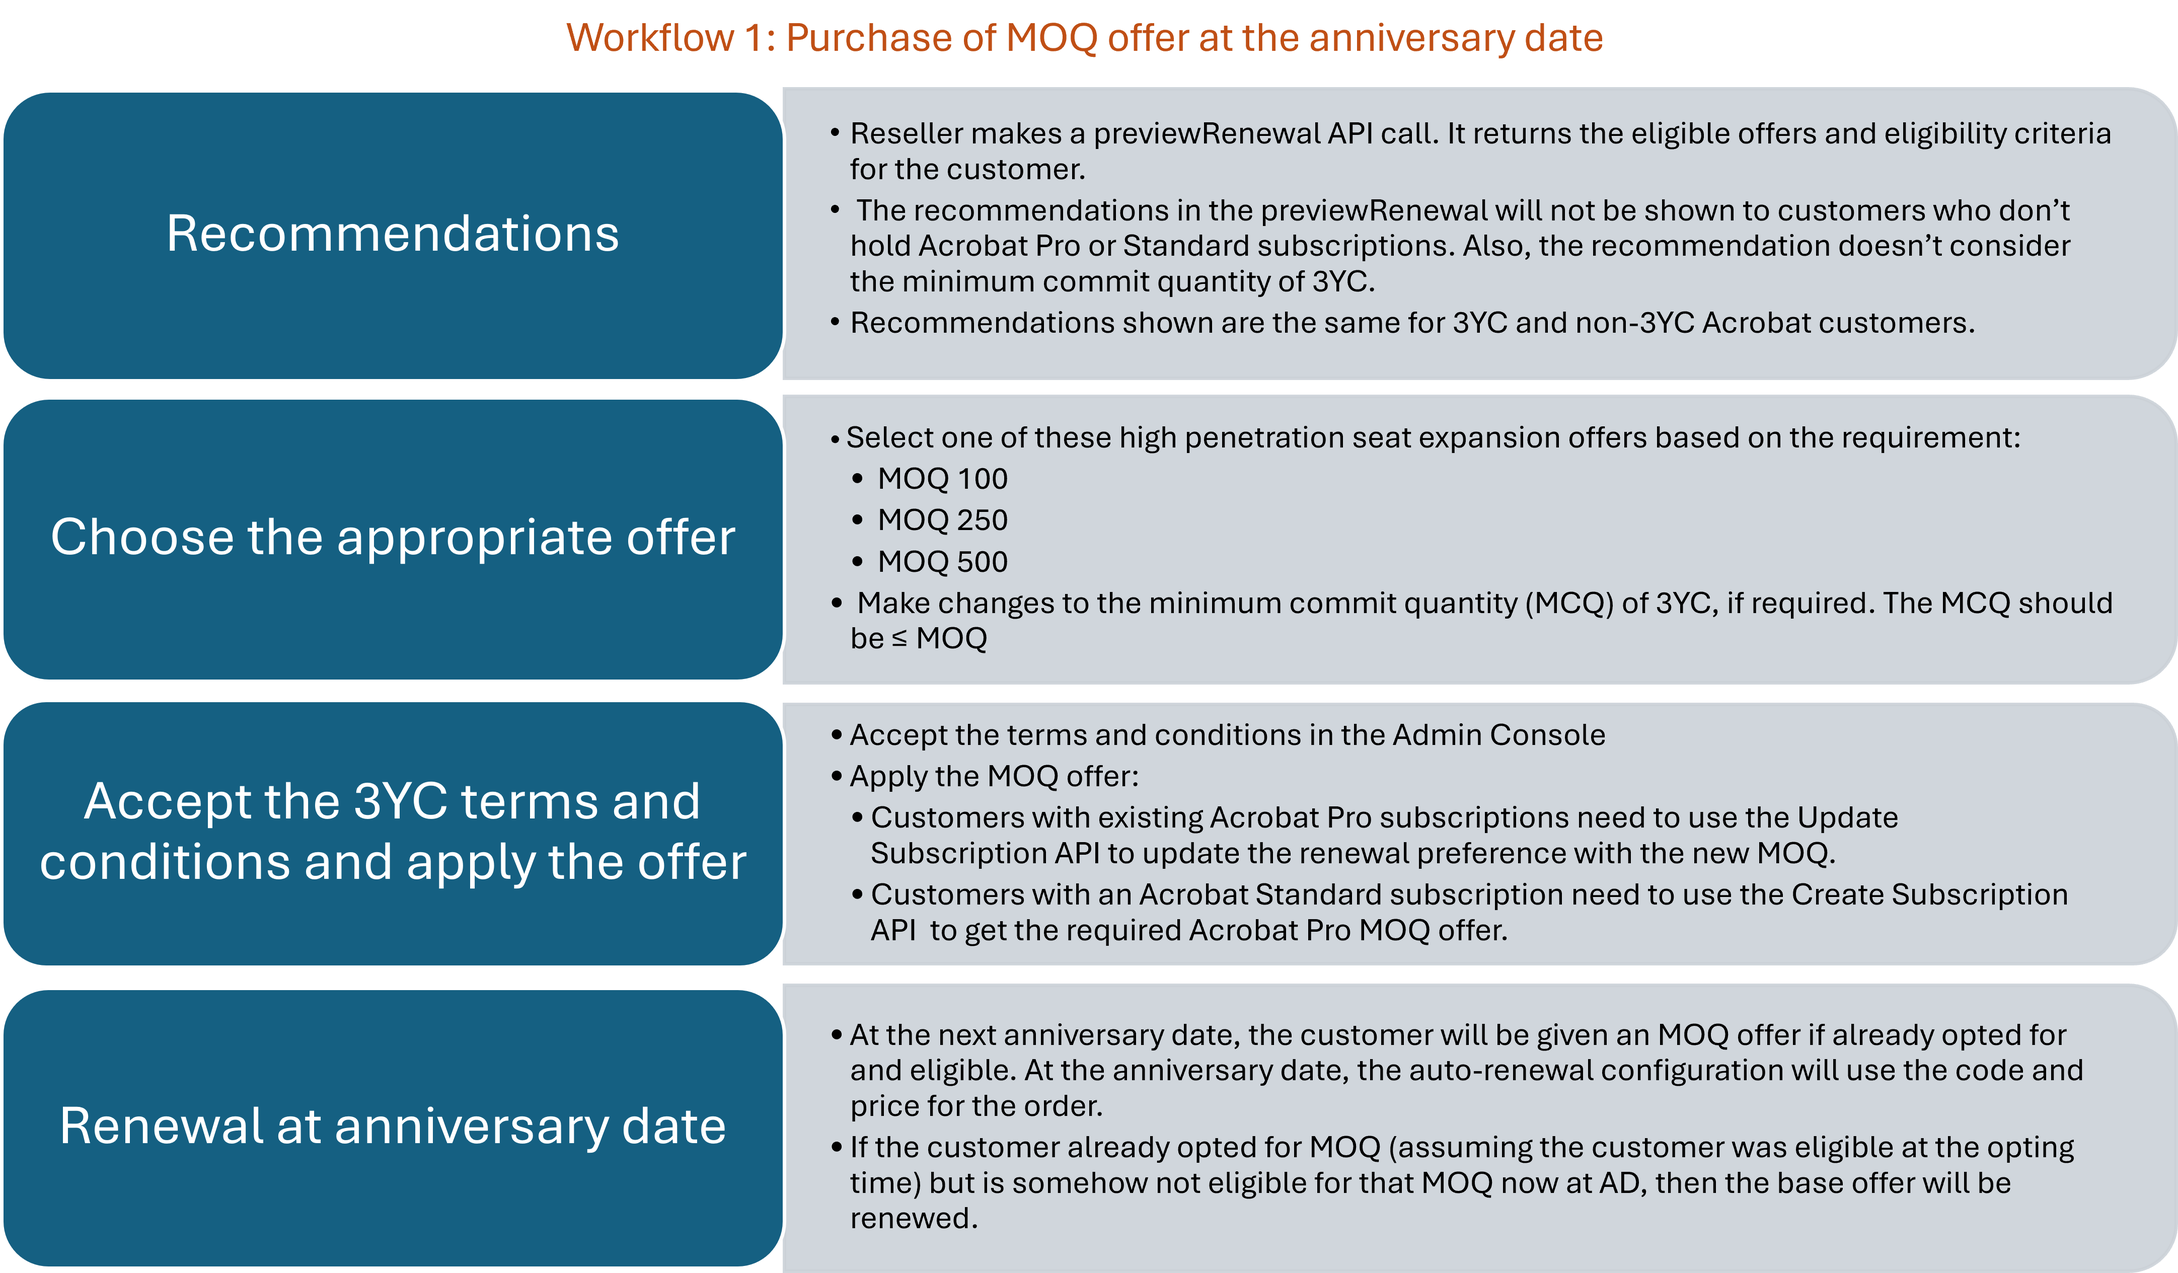
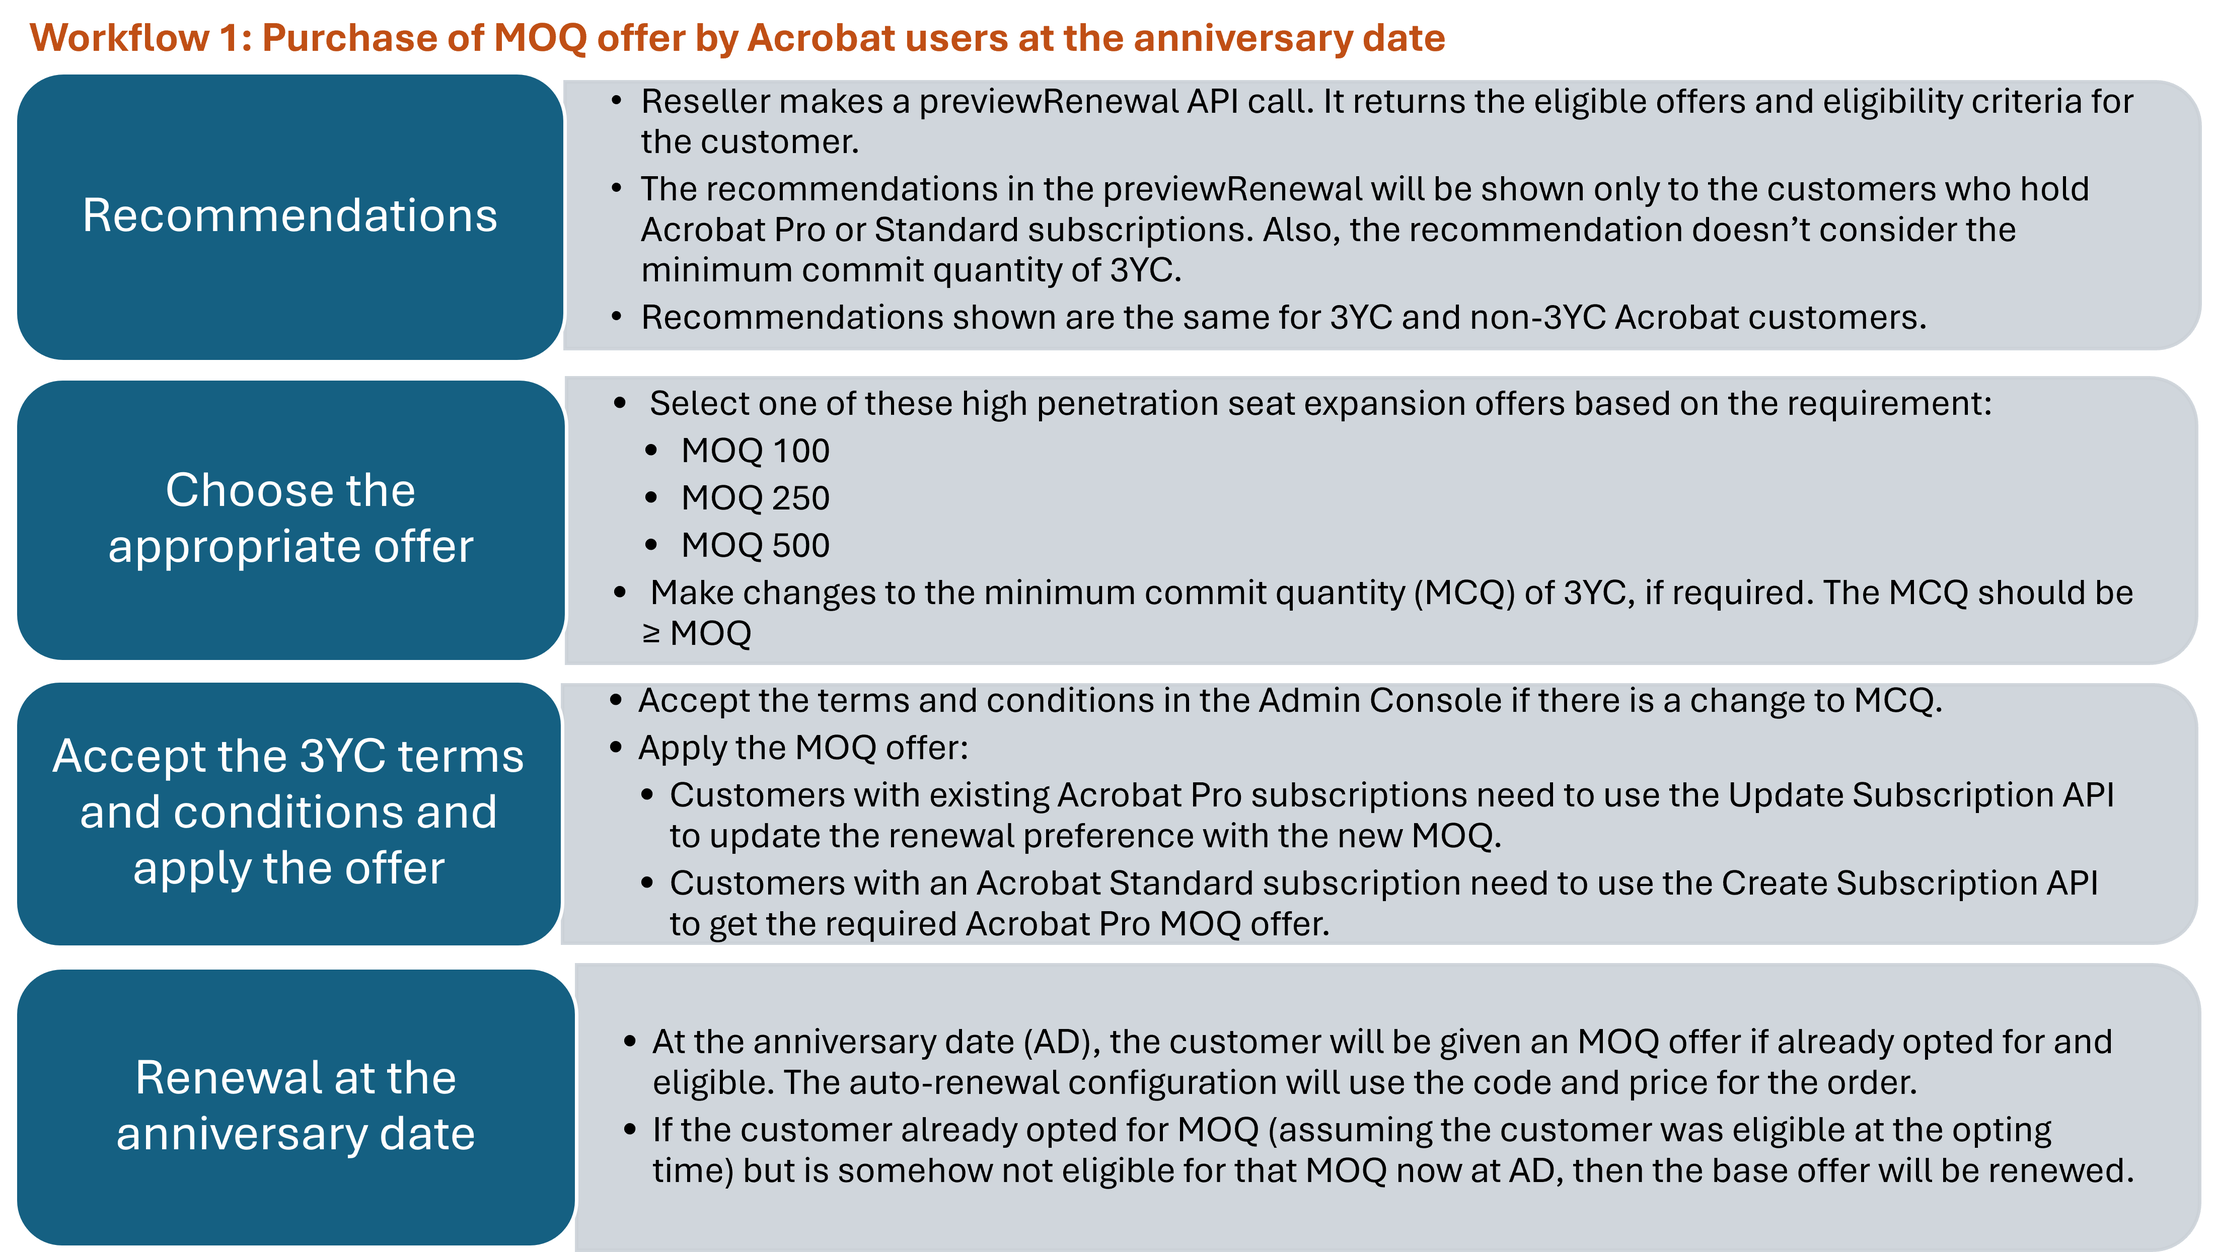
High-pen doc changes based on review comments

Changed region(s): [[0.0, 0.0, 1.0, 1.0]]

diff --git a/src/pages/docs/customer_account/high_pen_apis.md b/src/pages/docs/customer_account/high_pen_apis.md
@@ -1,6 +1,6 @@
 # Manage high penetration offers through APIs
 
-You can manage the following operations through APIs:
+As explained in the [high penetration seat expansion offer workflows](./high_volume_discounts.md#high-penetration-seat-expansion-workflows) section, a reseller and a customer need to perform various steps to provide MOQ offers to customers. This section lists the APIs to be used to achive this goal:
 
 - [Preview renewal offers](#preview-renewal-offers)
 - [Update subscription](#update-subscription)
@@ -10,7 +10,7 @@ You can manage the following operations through APIs:
 
 ## Preview renewal offers
 
-Use the `PreviewRenwal` API to get the preview of the renewal order for the customer. This is the same `POST v3/customers/{customer-id}/orders` with `orderType` as _PREVIEW_RENEWAL_.
+Use the `PreviewRenwal` API to get the preview of the renewal order for the customer. This is the same `POST v3/customers/{customer-id}/orders` API with `orderType` as _PREVIEW_RENEWAL_.
 
 **Assumptions:**
 
@@ -35,6 +35,8 @@ You can run the `PreviewRenewal` API anytime during the current term to get the 
 
 ### Response body
 
+In addition to the standard response of the Order API, the response of the Preview Renewal provides a list of MOQ offers that the customers can avail, under the `eligibleOffers` section:
+
 ```json
 {
   "referenceOrderId": "",
@@ -56,32 +58,33 @@ You can run the `PreviewRenewal` API anytime during the current term to get the 
   "eligibleOffers":
     [
       {
-        "offerId": "65324918CA01X12",
-        "discountCode": "MOQ_X",
-        "eligibility":
+        "offerId": "65324918CA14X12",
+        "renewalCode": "MOQ_100",
+        "eligibilityCriteria":
           {
             "minQuantity": 100,
-            "eligibleCustomer": ["THREE_YEAR_COMMIT"],
+            "additionalCriteria": ["THREE_YEAR_COMMIT"],
             "deploymentId": "1450043516",
           },
       },
       {
-        "offerId": "65324918CA01Y12",
-        "discountCode": "MOQ_Y",
-        "eligibility":
+        "offerId": "65324918CA14Y12",
+        "renewalCode": "MOQ_250",
+        "eligibilityCriteria":
           {
             "minQuantity": 250,
-            "eligibleCustomer": ["THREE_YEAR_COMMIT"],
+            "additionalCriteria": ["THREE_YEAR_COMMIT"],
             "deploymentId": "1450043516",
           },
       },
       {
-        "offerId": "65324918CA01Z12",
-        "discountCode": "MOQ_Z",
-        "eligibility":
-          { "minQuantity": 500, "eligibleCustomer": ["THREE_YEAR_COMMIT"] },
+        "offerId": "65324918CA14Z12",
+        "renewalCode": "MOQ_500",
+        "eligibilityCriteria":
+          { "minQuantity": 500, "additionalCriteria": ["THREE_YEAR_COMMIT"] },
       },
     ],
+    --<mark style="background-color: yellow">Liju</mark>
   "creationDate": "2024-04-01T07:26:05Z",
 }
 ```
@@ -100,7 +103,7 @@ Success response if the customer has already opted for 100 MOQ offer:
   "lineItems": [
     {
       "extLineItemNumber": 1,
-      "offerId": "65324918CA01X12",
+      "offerId": "65324918CA14X12",
       "quantity": 100,
       "subscriptionId": "a5ea3c7a764545a711d2a153678f02NA",
       "status": ""
@@ -108,33 +111,33 @@ Success response if the customer has already opted for 100 MOQ offer:
   ],
   "eligibleOffers": [
     {
-      "offerId": "65324918CA01X12",
-      "discountCode": "MOQ_X",
-      "eligibility": {
+      "offerId": "65324918CA14X12",
+      "renewalCode": "MOQ_100",
+      "eligibilityCriteria": {
         "minQuantity": 100,
-        "eligibleCustomer": [
+        "additionalCriteria": [
           "THREE_YEAR_COMMIT"
         ],
         "deploymentId": "1450043516"
       }
     },
     {
-      "offerId": "65324918CA01Y12",
-      "discountCode": "MOQ_Y",
-      "eligibility": {
+      "offerId": "65324918CA14Y12",
+      "renewalCode": "MOQ_250",
+      "eligibilityCriteria": {
         "minQuantity": 250,
-        "eligibleCustomer": [
+        "additionalCriteria": [
           "THREE_YEAR_COMMIT"
         ],
         "deploymentId": "1450043516"
       }
     },
     {
-      "offerId": "65324918CA01Z12",
-      "discountCode": "MOQ_Z",
-      "eligibility": {
+      "offerId": "65324918CA14Z12",
+      "renewalCode": "MOQ_500",
+      "eligibilityCriteria": {
         "minQuantity": 500,
-        "eligibleCustomer": [
+        "additionalCriteria": [
           "THREE_YEAR_COMMIT"
         ]
       }
@@ -143,6 +146,21 @@ Success response if the customer has already opted for 100 MOQ offer:
   "creationDate": "2024-04-01T07:26:05Z"
 }
 ```
+
+#### Response parameter details specific to eligible MOQ offers
+
+The full set of parameters of Order API are available in the [Order resource fields](../references/resources.md#order-top-level-resource) section. The following table lists the parameters specific to high penetration seat expansion offers:
+
+**Eligible offers**
+
+|Property | Type | Description | Range/Limits|
+|:----|:----|:----|:----|
+|offerId |string  |The unique ID of the offer |Max: 40 characters  |
+|renewalCode |string  |Unique identifier of the Minimum Order Quantity Offer. Available values are: <br />- MOQ_100 <br />- MOQ_250 <br />- MOQ_500 |Max: 40 characters  |
+|eligibilityCriteria |Array |The eligibility criteria for availing the MOQ offer. | |
+|minQuantity |Integer |The minimum quantity for which this offer is applicable and also the minimum quantity that the customer needs to commit for 3YC term to be eligible for this offer. |Min: 0 <br /> Max: 999999 |
+|additionalCriteria |string  |The additional criteria list for availing the high penetration seat expansion offer. Currently, `THREE_YEAR_COMMIT` is the only supported value.  |Min: 1 item <br /> Max: 499 items |
+|deploymentId |string  |Unique ID for the deployment. | Max: 40 characters |
 
 ### HTTP status codes
 
@@ -166,9 +184,9 @@ Failure response:
 
 ## Update subscription
 
-Use the `PATCH /v3/customers/{customer-id}/subscriptions/{sub-id}?reset-discount-code=false` API to update the renewal preferences for the customer's subscription with the MOQ offer details.
+Use the `PATCH /v3/customers/{customer-id}/subscriptions/{sub-id}?reset-renewal-code=false` API to update the renewal preferences for the customer's subscription with the MOQ offer details.
 
-You can use the optional query param `reset-discount-code` in the request to remove the discountCode after it has been opted by customer. Possible values are:
+You can use the optional query param `reset-renewal-code` in the request to remove the renewalCode after it has been opted by the customer. Possible values are:
 
 - `true`
 - `false`
@@ -181,28 +199,32 @@ Same as the [request header given in the previous endpoint](#request-header).
 
 ### Request body
 
+You need to include the `renewalCode` parameter in the auto renewal configuration, as shown in the following code sample:
+
 ```json
 {
     "autoRenewal": {
         "enabled": true,
         "renewalQuantity": 100,
-        "discountCode": "MOQ_X"
+        "renewalCode": "MOQ_100"
     }
 }
 ```
 
 ### Request response
 
+The response shows the `renewalCode` with the selected MOQ offer.
+
 ```json
 {
     "subscriptionId": "a028303a454a168d6b824b6c0dfcc5NA",
-    "offerId": "65324918CA01A12",
+    "offerId": "65324918CA14A12",
     "currentQuantity": 10,
     "usedQuantity": 0,
     "autoRenewal": {
         "enabled": true,
         "renewalQuantity": 100,
-        "discountCode": "MOQ_X"
+        "renewalCode": "MOQ_100"
     },
     "creationDate": "2023-09-22T08:38:27Z",
     "renewalDate": "2024-09-22",
@@ -239,7 +261,7 @@ On failure, the appropriate HTTP status code based on the reason/type of failure
 
 #### Sample request and response with query parameter
 
-Use the `/v3/customers/{customer-id}/subscriptions/{sub-id}?reset-discount-code=true`
+Use the `/v3/customers/{customer-id}/subscriptions/{sub-id}?reset-renewal-code=true`
 
 Request body:
 
@@ -283,17 +305,19 @@ Response:
 
 Use the `POST v3/customers/{{customerId}}/subscriptions` API to create a subscription for the specific customer.
 
-For example, if the customer has only Acro Standard product and not Acrobat Pro, they can use Create Subscription API to create a scheduled subscription for the MOQ.
+For example, if the customer has only Acrobat Standard product and not Acrobat Pro, they can use Create Subscription API to create a scheduled subscription for the MOQ.
 
 **Assumptions:**
 
-- The `Create Subscription` endpint now also supports `discountCode` to be given by partner in request for opting for a MOQ.
+- The `Create Subscription` endpoint now also supports `renewalCode` to be given by partner in request for opting for a MOQ.
 - If the customer accepts to renew with Acrobat Pro MoQ SKU while the customer currently has Acrobat Standard SKU, the Distributor executes create subscription API that allows a scheduled subscription to be created to be activated at the anniversary date.
+
 - For global customers, the following parameters are required:
+
   - `currencyCode`
   - `deploymentId`
   
-  These are part of `getsubscription` API as swell
+  These are part of the Get Subscription API as well.
 
 ### Request header
 
@@ -303,8 +327,8 @@ Same as the [request header given in the previous endpoint](#request-header).
 
 ```json
 {
-    "offerId": "65322450CA01X12",
-    "discountCode": "MOQ_X",
+    "offerId": "65322450CA14X12",
+    "renewalCode": "MOQ_100",
     "autoRenewal": {
         "renewalQuantity": 100
     }
@@ -316,13 +340,13 @@ Same as the [request header given in the previous endpoint](#request-header).
 ```json
 {
     "subscriptionId": "e0b170437c4e96ac5428364f674dffNA",
-    "offerId": "65322450CA01X12",
+    "offerId": "65322450CA14X12",
     "currentQuantity": 0,
     "usedQuantity": 0,
     "autoRenewal": {
         "enabled": true,
         "renewalQuantity": 100,
-        "discountCode": "MOQ_X"
+        "renewalCode": "MOQ_100"
     },
     "creationDate": "2023-07-18T05:20:19Z",
     "renewalDate": "2024-07-18",
@@ -350,7 +374,7 @@ Same as the [request header given in the previous endpoint](#request-header).
 
 ## Get subscription
 
-Use the `GET /v3/customers/{{customerId}}/subscriptions` API to get the subscription details. Along with ther details, it displays the `discountCode` in the autoRenewal preferences if the customer has opted for it for the next term.
+Use the `GET /v3/customers/{{customerId}}/subscriptions` API to get the subscription details. Along with ther details, it displays the `renewalCode` in the autoRenewal preferences if the customer has opted for it for the next term.
 
 ### Request header
 
@@ -365,13 +389,13 @@ None.
 ```json
 {
     "subscriptionId": "e01756010447808cd0463411464d87NA",
-    "offerId": "65324918CA01A12",
+    "offerId": "65324918CA14A12",
     "currentQuantity": 2,
     "usedQuantity": 0,
     "autoRenewal": {
         "enabled": true,
         "renewalQuantity": 100,
-        "discountCode": "MOQ_X"
+        "renewalCode": "MOQ_100"
     },
     "creationDate": "2024-06-18T09:49:10Z",
     "renewalDate": "2025-06-18",
@@ -400,4 +424,4 @@ None.
 
 ## Create order
 
-No change in the API request or response. Read more about [how to create order through API](../order_management/create_order.md). Customer can send `offerId` corresponding to MOQ, for example 65322450CA01X12, to create mid term purchase order of MOQ.
+No change in the API request or response. Read more about [how to create order through API](../order_management/create_order.md). Customer can send `offerId` corresponding to MOQ, for example 65322450CA14X12, to create mid-term purchase order of MOQ.

diff --git a/src/pages/docs/customer_account/high_volume_discounts.md b/src/pages/docs/customer_account/high_volume_discounts.md
@@ -30,9 +30,7 @@ Enterprise and Team customers aiming to expand significantly can access high pen
 1. Customers must be enrolled in the 3YC program.
 2. Customers require a minimum order quantity (MOQ) of 100 or more. Customers can choose from the available MOQ offers based on their seat requirements. For instance, if a customer already has 110 seats, they can consider selecting either the 250 or 500 MOQ offer option, as shown in the following table.
 
-   **Note:**
-
-- MOQ offers are available to new and existing customers with a certain number of licenses for specific product groups. For example, Acrobat Standard and Acrobat Pro are part of the Acrobat group, and customers with a combined quantity of 45 of these products will only qualify for Acrobat Pro MOQ 100 offer.
+   **Note:** MOQ offers are available to new and existing customers with a certain number of licenses for specific product groups. For example, Acrobat Standard and Acrobat Pro are part of the Acrobat group, and customers with a combined quantity of 45 of these products will only qualify for Acrobat Pro MOQ 100 offer.
 
      | Current seats at renewal <br/> Acrobat Pro + Standard | Eligible Minimum Order Quantity (MOQ) |
     |-------------------------------------------------------|---------------------------------------|
@@ -43,7 +41,7 @@ Enterprise and Team customers aiming to expand significantly can access high pen
 3 - The number of subscriptions at the renewal date on the anniversary date must be greater than or equal to the number of seats committed (MCQ). For example, if the number of seats is 130:
 
 - MOQ offer quantity must be 250 or 500
-- 3YC Minimum Commit Quantity (MCQ) must be 250+
+- 3YC Minimum Commit Quantity (MCQ) must be 250+ or 500+ respectively
 
   | Current seats at renewal <br/> Acrobat Pro + Standard | Eligible Minimum Order Quantity (MOQ) | 3YC Minimum Commit Quantities (MCQ) - Needs to be increased based on the MOQ) |
   |-------------------------------------------------------|---------------------------------------|-------------------------------------------------------------------------------|
@@ -55,16 +53,18 @@ Enterprise and Team customers aiming to expand significantly can access high pen
 
 Adobe defines the high penetration seat expansion offers, and the corresponding offer ID is shared with the partners. For example:
 
-- 65304479CA14X12 = Acrobat Pro 100 MOQ Pack
-- 65304479CA14Y12 = Acrobat Pro 250 MOQ Pack
-- 65304479CA14Z12 = Acrobat Pro 500 MOQ Pack
+- 65304479CA14X12 = Acrobat Pro 100 MOQ
+- 65304479CA14Y12 = Acrobat Pro 250 MOQ
+- 65304479CA14Z12 = Acrobat Pro 500 MOQ
 
-Customer can opt for an MOQ at the time of renewal of subscription at the anniversary date or at mid-term. Purchases at the anniversary date is for the next term aand mid-term purchases are applicable to the current term.
+Customers can opt for an MOQ at the time of renewal of the subscription at the anniversary date or at mid-term. Purchases at the anniversary date is for the next term and mid-term purchases are applicable to the current term.
 
 The following figures illustrate the workflows for these scenarios:
 
 ![Workflow 1](../image/moq_ad.png)
 
 ![Workflow 2](../image/moq_mid_term.png)
+
+![Workflow 2](../image/moq_non_acro.png)
 
 Read more about [high penetration offer scenarios](./high_pen_scenarios.md).

diff --git a/src/pages/docs/customer_account/high_pen_scenarios.md b/src/pages/docs/customer_account/high_pen_scenarios.md
@@ -1,4 +1,4 @@
-# High penetration renewal scenarios
+# High penetration offer renewal scenarios
 
 You can use this documentation as a reference while finalizing the offer for the customers.
 
@@ -6,7 +6,7 @@ You can use this documentation as a reference while finalizing the offer for the
 
 - **AD (Anniversary Date):**  The date on which 3YC contracts are renewed.
 - **Current quantity:** The number of subscriptions owned by the customer.
-- **Renewal quantity:** The number of subscriptions that the customer would like to renew on the next anniversary date. This is specified in the auto-renewal configuration.
+- **Renewal quantity:** The number of subscriptions that the customer wants to renew on the next anniversary date. This is specified in the auto-renewal configuration.
 
 The following list gives an overview of possible scnearios. You may encounter other scenarios as well. In case of ony queries, contact [partnerapi-support@adobe.com](mailto:partnerapi-support@adobe.com).
 
@@ -52,4 +52,4 @@ The following list gives an overview of possible scnearios. You may encounter ot
 
 | At AD                                                   | AD + 3 months      | AD + 6 months| At AD | Decision on providing MOQ offer                         |
 |----------------------------------------------------------|--|----------------------------------------|---------------------------------------------------------|--|
-|- **Current quantity:** 20 <br /> - **MOQ:** Null |   - Purchased MOQ 100 <br /> - Current quantity: 120 <br /> - Renewal quantity 120 |  - Purchased MOQ 250 with 250 licenses <br /> - Current quantity: 370 <br /> - Renewal quantity: 250  |- 250 quantity invoiced with 250 MOQ  | Customers can purchase MOQ offers mid-term, even if they don’t already hold MOQ. Highest MOQ needs to be retained for renewal setting.|
+|- **Current quantity:** 20 <br /> - **MOQ:** Null |   - Purchased MOQ 100 <br /> - Current quantity: 120 <br /> - Renewal quantity 120 |  - Purchased MOQ 250 with 250 licenses <br /> - Current quantity: 370 <br /> - Renewal quantity: 250  |- 250 quantity invoiced with 250 MOQ  | Customers can purchase MOQ offers mid-term, even if they don’t already hold MOQ. The highest MOQ needs to be retained for renewal setting.|
